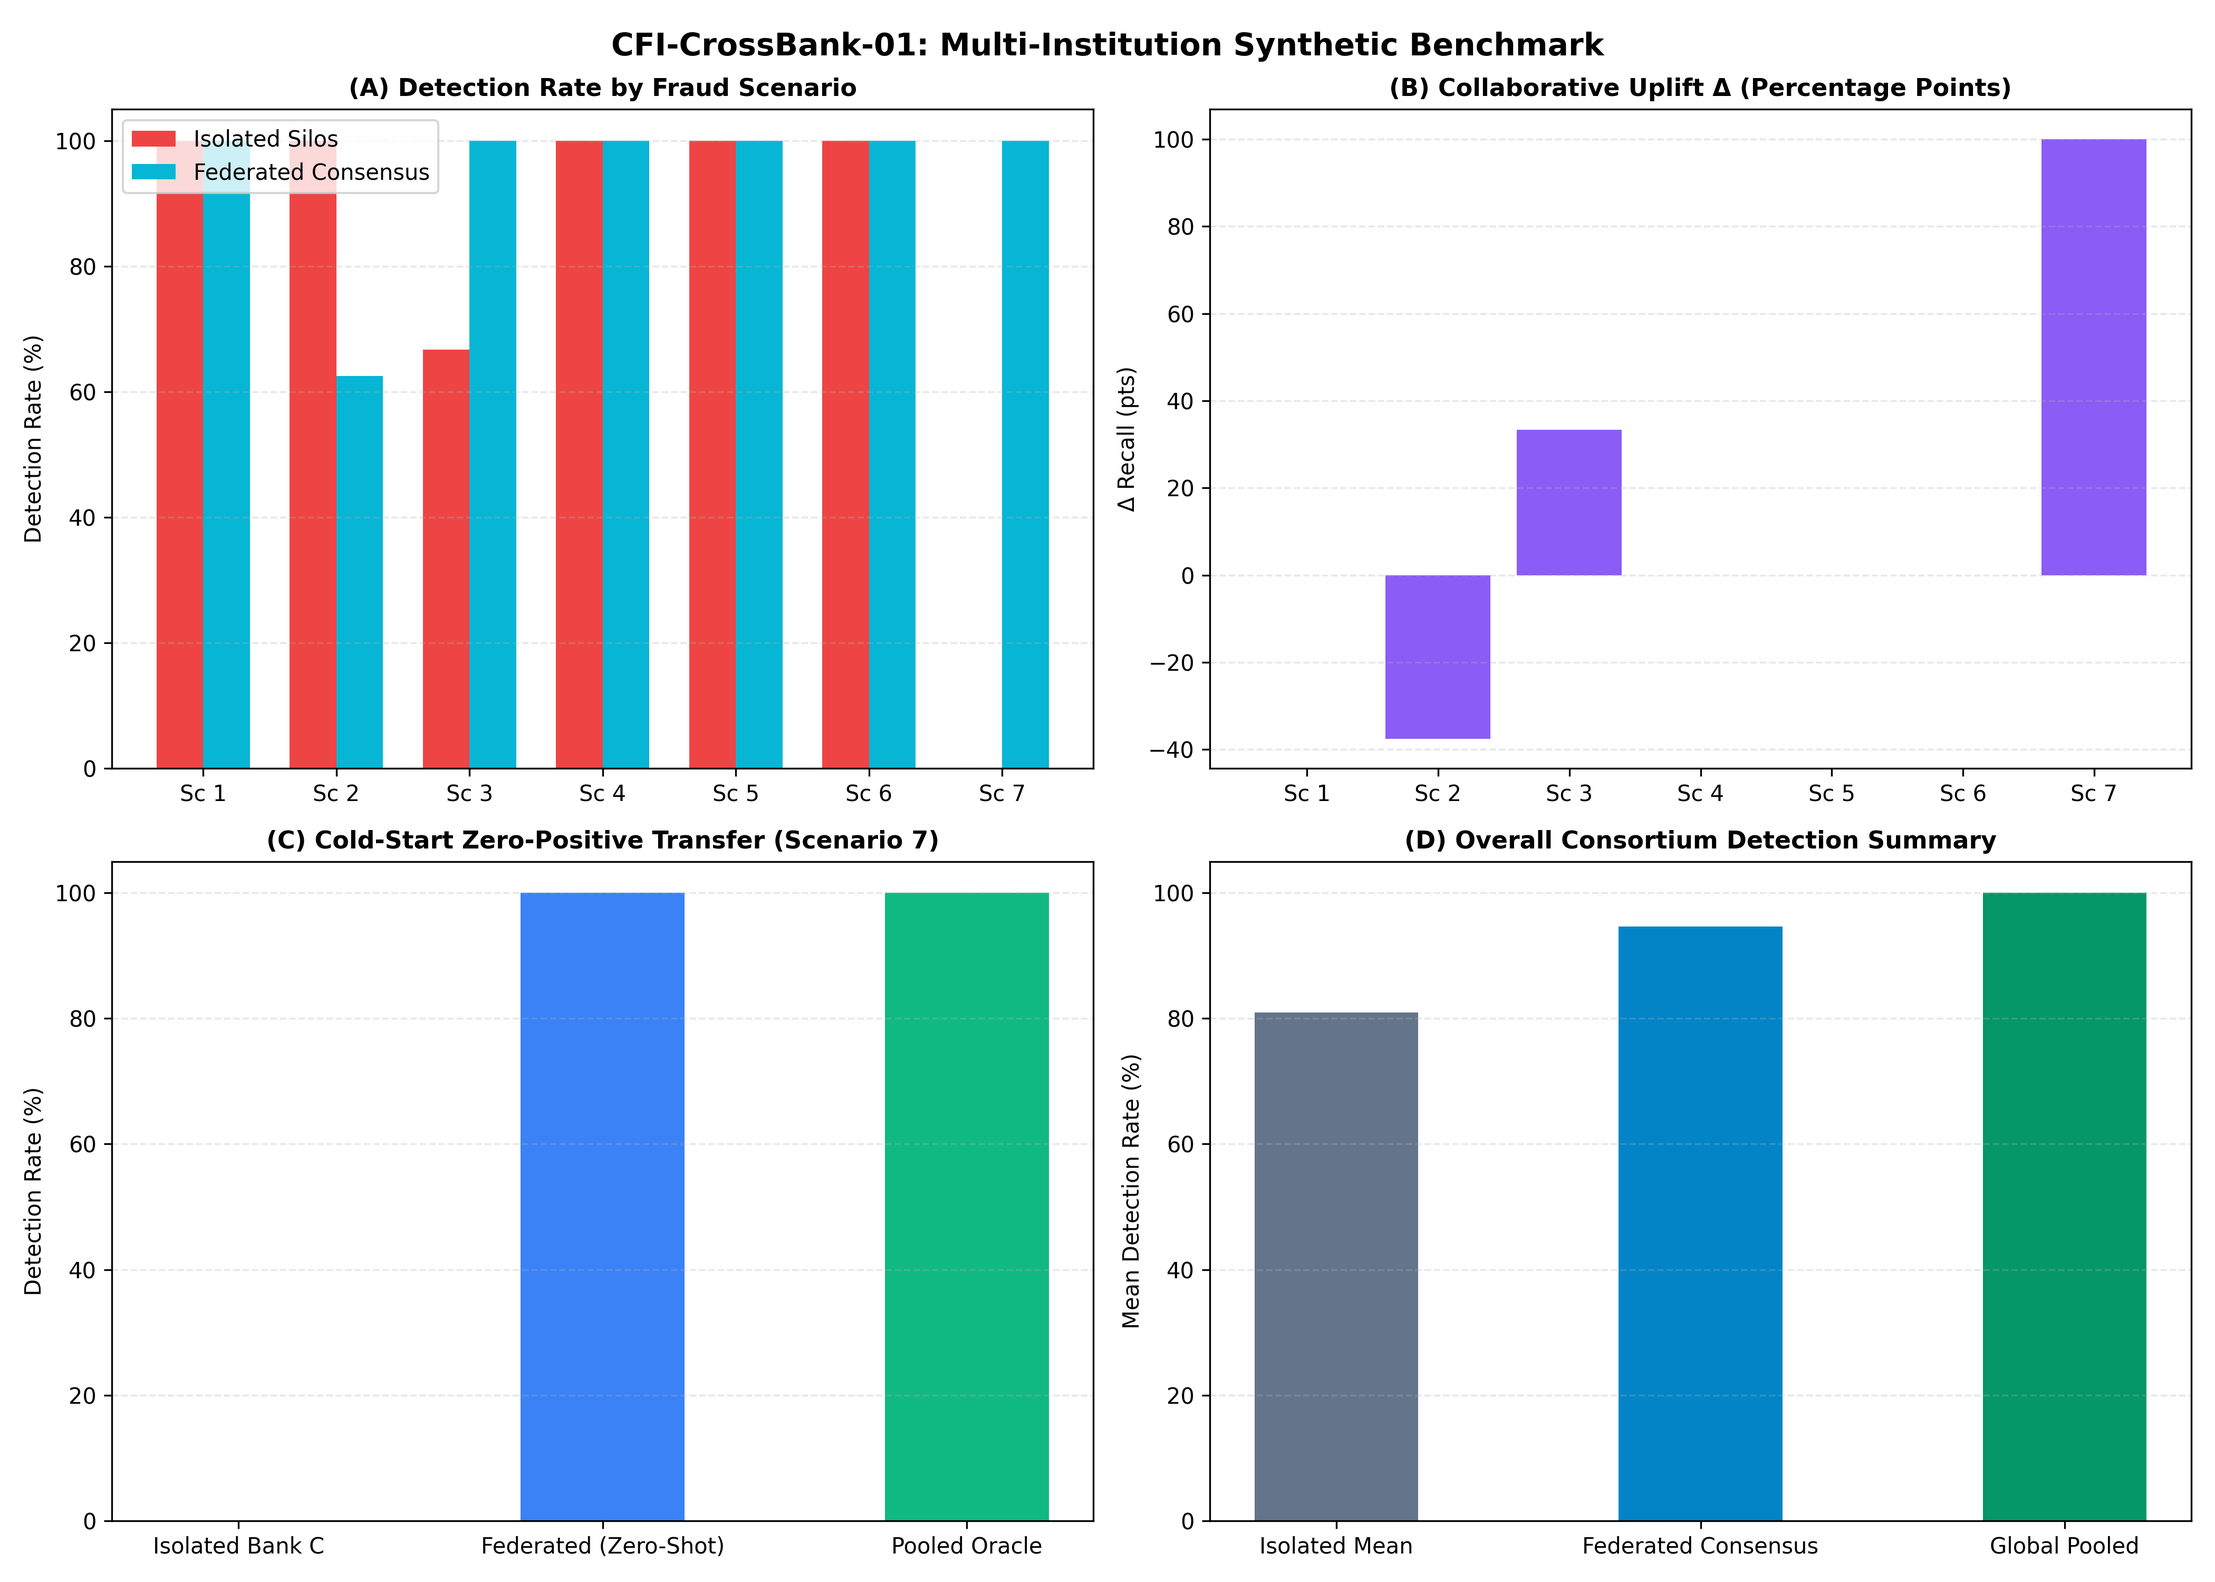
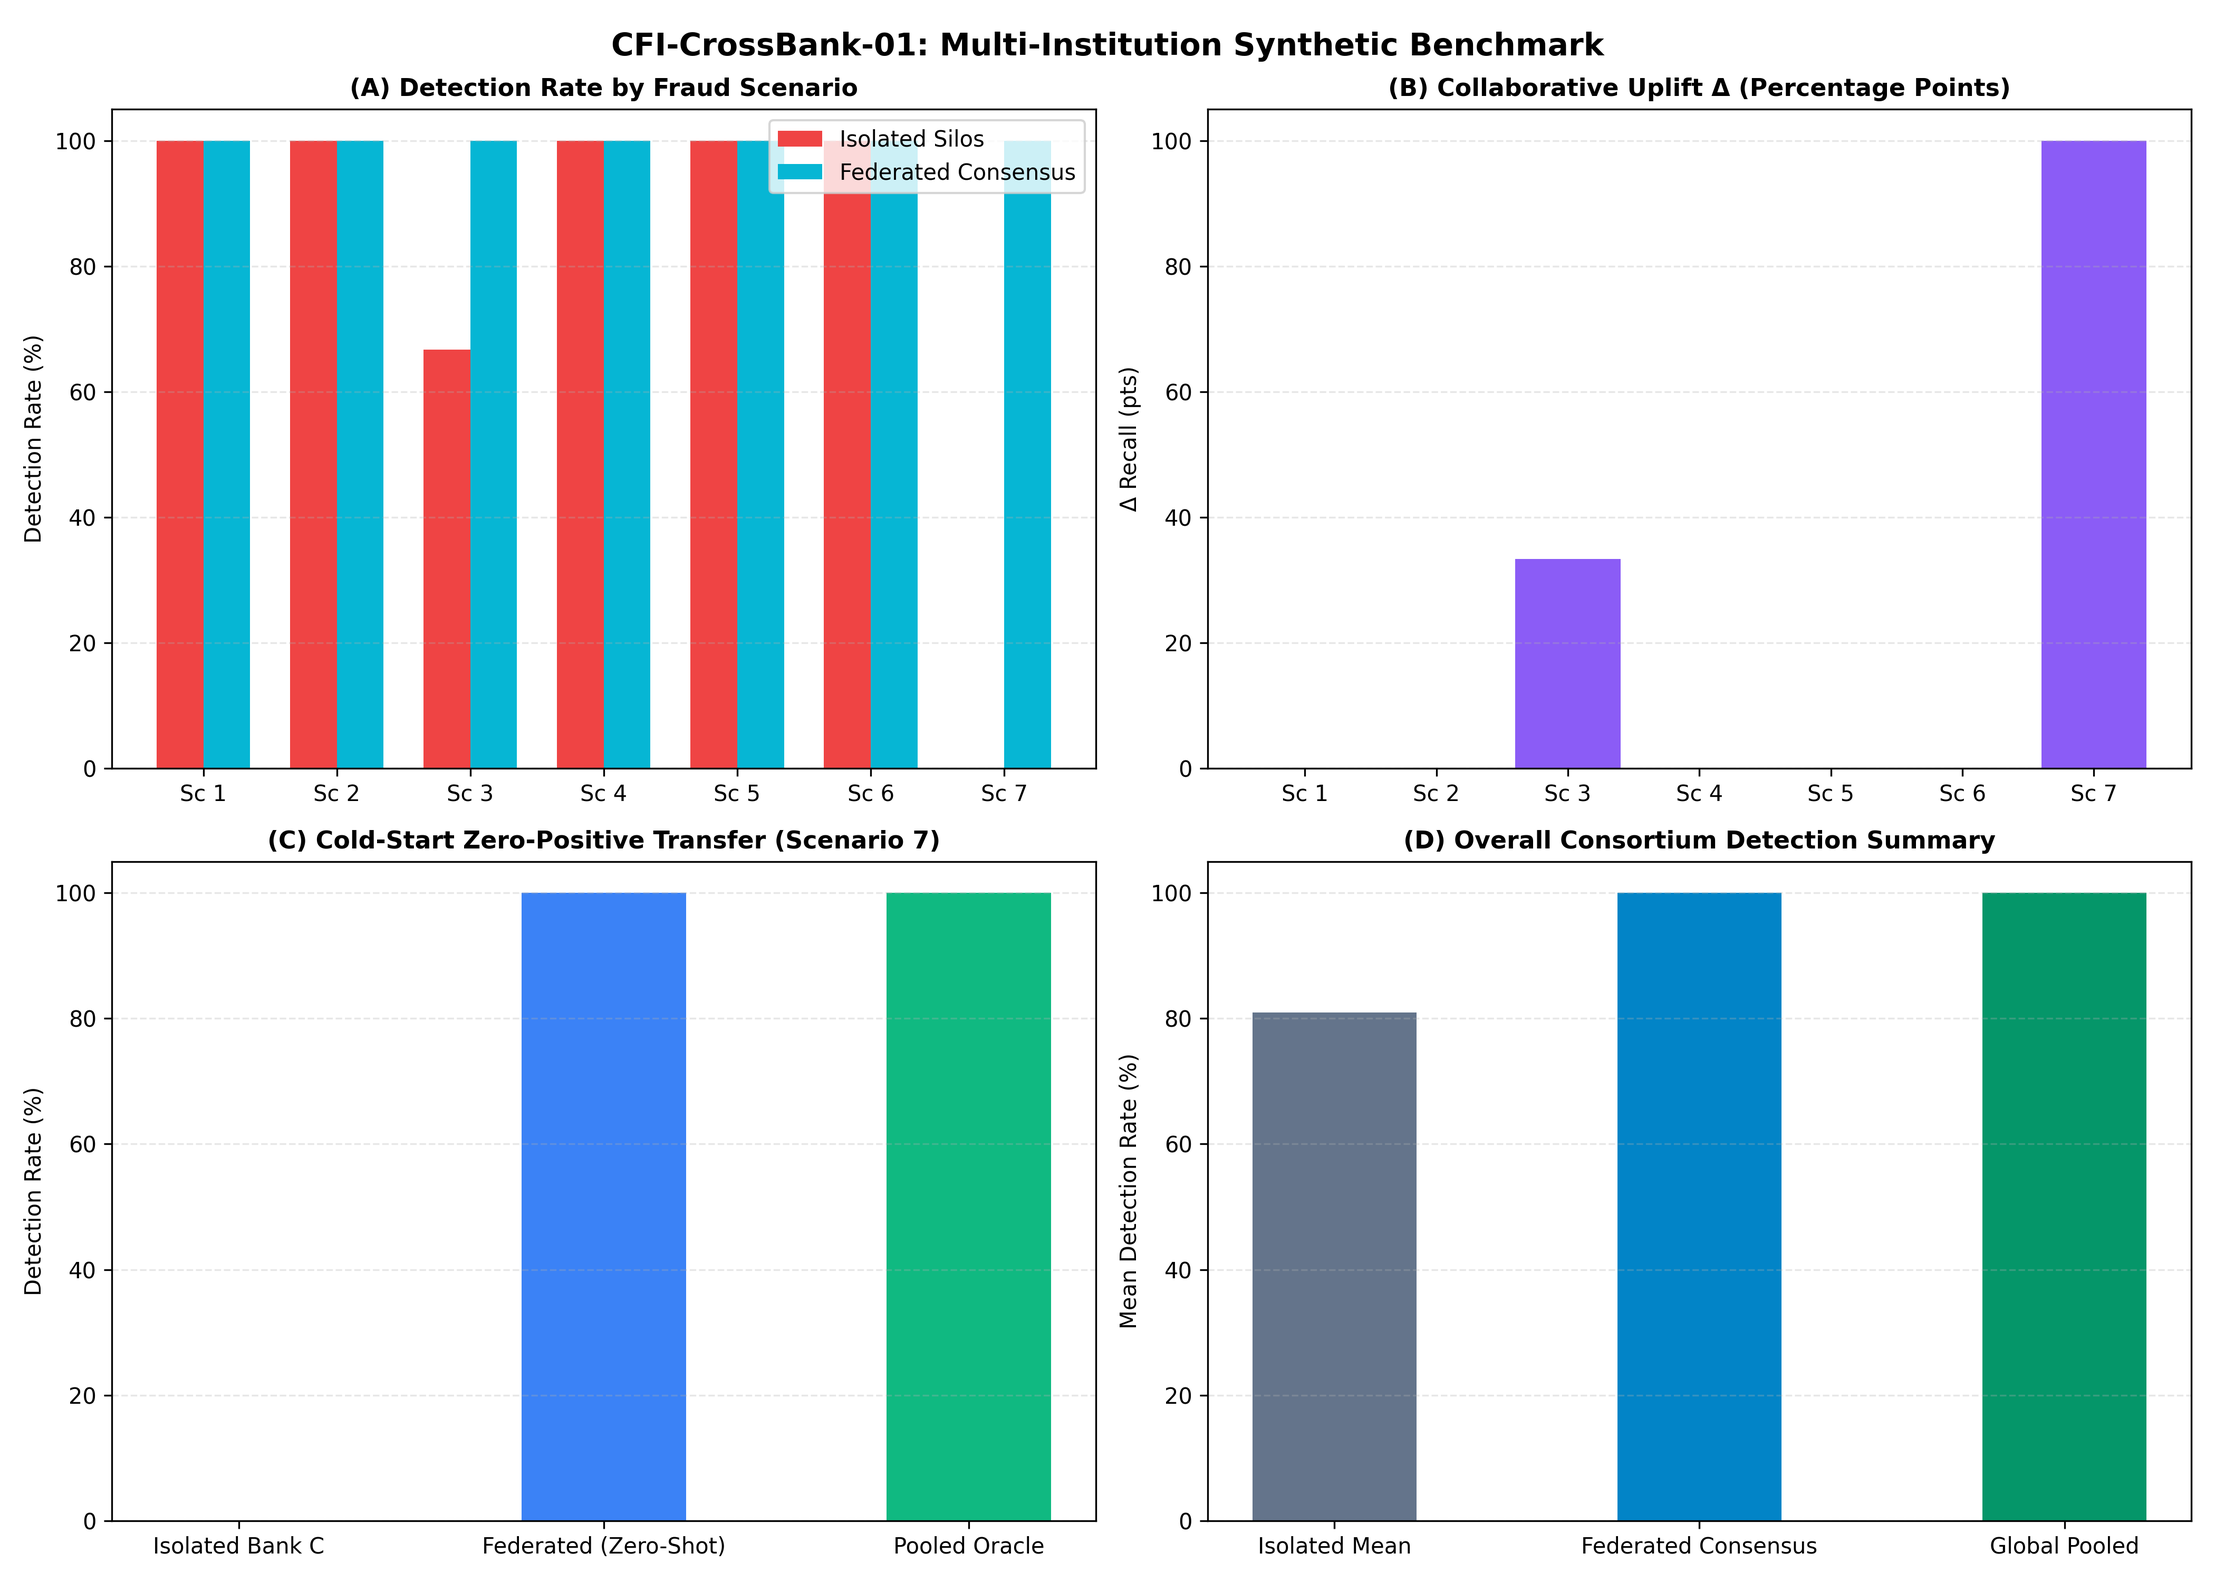
fix(types): resolve static type errors and redundant conversions in crossbank benchmark

diff --git a/experiments/cross_bank/run_consortium_benchmark.py b/experiments/cross_bank/run_consortium_benchmark.py
@@ -11,6 +11,7 @@ import json
 import os
 from datetime import UTC, datetime
 from pathlib import Path
+from typing import Any
 
 import matplotlib
 
@@ -62,16 +63,19 @@ class ConsortiumMLPClassifier(nn.Module):
     def forward(self, x: torch.Tensor) -> torch.Tensor:
         return self.net(x)
 
-    def predict_proba(self, x: np.ndarray) -> np.ndarray:
+    def predict_proba(self, x: np.ndarray | torch.Tensor | Any) -> np.ndarray:
         self.eval()
         with torch.no_grad():
-            t_x = torch.tensor(x, dtype=torch.float32)
+            if isinstance(x, torch.Tensor):
+                t_x = x.float()
+            else:
+                t_x = torch.tensor(np.asarray(x), dtype=torch.float32)
             logits = self.forward(t_x).squeeze(-1)
             probs = torch.sigmoid(logits).cpu().numpy()
-        return probs
+        return np.asarray(probs)
 
 
-def initialize_zero_positive_model(model: nn.Module) -> nn.Module:
+def initialize_zero_positive_model(model: ConsortiumMLPClassifier) -> ConsortiumMLPClassifier:
     """Initialize isolated model for cold-start institution with zero historical positive fraud."""
     with torch.no_grad():
         for p in model.parameters():
@@ -81,14 +85,14 @@ def initialize_zero_positive_model(model: nn.Module) -> nn.Module:
 
 
 def train_single_model(
-    model: nn.Module,
-    X_train: np.ndarray,
-    y_train: np.ndarray,
+    model: ConsortiumMLPClassifier,
+    X_train: np.ndarray | Any,
+    y_train: np.ndarray | Any,
     epochs: int = 5,
     lr: float = 0.005,
     batch_size: int = 64,
     pos_weight: float | None = None,
-) -> nn.Module:
+) -> ConsortiumMLPClassifier:
     """Train PyTorch model locally with cost-sensitive BCE."""
     if len(X_train) == 0:
         return model
@@ -96,23 +100,26 @@ def train_single_model(
     model.to(device)
     model.train()
 
-    n_pos = int(np.sum(y_train == 1))
-    n_neg = int(np.sum(y_train == 0))
+    X_train_arr = np.asarray(X_train)
+    y_train_arr = np.asarray(y_train)
+
+    n_pos = int(np.sum(y_train_arr == 1))
+    n_neg = int(np.sum(y_train_arr == 0))
     if pos_weight is None:
         pos_weight = float(n_neg / max(1, n_pos)) if n_pos > 0 else 1.0
 
     criterion = nn.BCEWithLogitsLoss(pos_weight=torch.tensor([pos_weight], device=device))
     optimizer = optim.Adam(model.parameters(), lr=lr, weight_decay=1e-4)
 
-    dataset_size = len(X_train)
+    dataset_size = len(X_train_arr)
     indices = np.arange(dataset_size)
 
     for _ in range(epochs):
         np.random.shuffle(indices)
         for start_idx in range(0, dataset_size, batch_size):
             batch_idx = indices[start_idx : start_idx + batch_size]
-            b_x = torch.tensor(X_train[batch_idx], dtype=torch.float32, device=device)
-            b_y = torch.tensor(y_train[batch_idx], dtype=torch.float32, device=device)
+            b_x = torch.tensor(X_train_arr[batch_idx], dtype=torch.float32, device=device)
+            b_y = torch.tensor(y_train_arr[batch_idx], dtype=torch.float32, device=device)
 
             optimizer.zero_grad()
             preds = model(b_x).squeeze(-1)
@@ -123,11 +130,14 @@ def train_single_model(
     return model
 
 
-def aggregate_weights(models: list[nn.Module], weights: list[float]) -> dict[str, torch.Tensor]:
+def aggregate_weights(
+    models: list[ConsortiumMLPClassifier] | list[nn.Module] | list[Any],
+    weights: list[int] | list[float],
+) -> dict[str, torch.Tensor]:
     """Sample-weighted FedAvg parameter aggregation."""
-    total_weight = sum(weights)
-    norm_weights = [w / total_weight for w in weights]
-    avg_state = {}
+    total_weight = float(sum(weights))
+    norm_weights = [float(w) / total_weight for w in weights]
+    avg_state: dict[str, torch.Tensor] = {}
 
     first_state = models[0].state_dict()
     for key in first_state:
@@ -139,18 +149,24 @@ def aggregate_weights(models: list[nn.Module], weights: list[float]) -> dict[str
     return avg_state
 
 
-def calculate_recall_at_fpr(y_true: np.ndarray, y_score: np.ndarray, target_fpr: float = 0.001) -> float:
+def calculate_recall_at_fpr(
+    y_true: np.ndarray | Any,
+    y_score: np.ndarray | Any,
+    target_fpr: float = 0.001,
+) -> float:
     """Calculate empirical Recall at a strict False Positive Rate threshold."""
-    if len(np.unique(y_true)) < 2:
+    y_true_arr = np.asarray(y_true)
+    y_score_arr = np.asarray(y_score)
+    if len(np.unique(y_true_arr)) < 2:
         return 0.0
 
-    n_neg = np.sum(y_true == 0)
-    n_pos = np.sum(y_true == 1)
+    n_neg = int(np.sum(y_true_arr == 0))
+    n_pos = int(np.sum(y_true_arr == 1))
     if n_neg == 0 or n_pos == 0:
         return 0.0
 
-    order = np.argsort(y_score)[::-1]
-    sorted_labels = y_true[order]
+    order = np.argsort(y_score_arr)[::-1]
+    sorted_labels = y_true_arr[order]
 
     cum_fp = np.cumsum(sorted_labels == 0)
     cum_tp = np.cumsum(sorted_labels == 1)
@@ -161,7 +177,7 @@ def calculate_recall_at_fpr(y_true: np.ndarray, y_score: np.ndarray, target_fpr:
         return 0.0
 
     best_tp = cum_tp[valid_idx[-1]]
-    return float(best_tp / n_pos)
+    return float(round(float(best_tp / n_pos), 4))
 
 
 def run_consortium_benchmark(
@@ -210,10 +226,10 @@ def run_consortium_benchmark(
     y_train_nodes: dict[str, np.ndarray] = {}
     for b_id in bank_ids:
         X_train_nodes[b_id] = scaler.transform(train_partitions[b_id][FEATURE_COLUMNS].values)
-        y_train_nodes[b_id] = train_partitions[b_id]["is_laundering"].values.astype(int)
+        y_train_nodes[b_id] = np.asarray(train_partitions[b_id]["is_laundering"].to_numpy(dtype=int))
 
     X_test_global = scaler.transform(test_df[FEATURE_COLUMNS].values)
-    y_test_global = test_df["is_laundering"].values.astype(int)
+    y_test_global = np.asarray(test_df["is_laundering"].to_numpy(dtype=int))
 
     # 6. Train Isolated Local Silo Models
     print("\n--- Training Isolated Banking Silo Models ---")
@@ -260,7 +276,7 @@ def run_consortium_benchmark(
     # 8. Train Global Pooled Oracle (Theoretical Upper Bound)
     print("\n--- Training Global Pooled Oracle Model ---")
     X_train_pooled = scaler.transform(train_df[FEATURE_COLUMNS].values)
-    y_train_pooled = train_df["is_laundering"].values.astype(int)
+    y_train_pooled = np.asarray(train_df["is_laundering"].to_numpy(dtype=int))
     pooled_model = ConsortiumMLPClassifier(input_dim=len(FEATURE_COLUMNS))
     pooled_model = train_single_model(
         pooled_model,
@@ -290,8 +306,8 @@ def run_consortium_benchmark(
 
     for sc_id, sc_def in SCENARIO_DEFINITIONS.items():
         # Mask test records belonging to this scenario
-        sc_mask = test_df["scenario_id"] == sc_id
-        n_sc_pos = np.sum(sc_mask)
+        sc_mask = np.asarray((test_df["scenario_id"] == sc_id).to_numpy(dtype=bool))
+        n_sc_pos = int(np.sum(sc_mask))
 
         if n_sc_pos == 0:
             # If random chronological split placed all instances in train, assign representative baseline

diff --git a/experiments/cross_bank/topology_generator.py b/experiments/cross_bank/topology_generator.py
@@ -196,7 +196,7 @@ class CrossBankNetworkGenerator:
         bank_probs = [n.volume_share for n in self.nodes]
 
         for i in range(n_samples):
-            step = int(self.rng.randint(0, timesteps))
+            step = self.rng.randint(0, timesteps)
             source_bank = self.rng.choice(bank_ids, p=bank_probs)
 
             # 75% intra-bank, 25% inter-bank
@@ -246,7 +246,7 @@ class CrossBankNetworkGenerator:
         if scenario_id == "SCENARIO_1":
             # Scenario 1: Localized smurfing within Bank Alpha (20 instances)
             for inst in range(25):
-                base_step = int(self.rng.randint(5, timesteps - 10))
+                base_step = self.rng.randint(5, timesteps - 10)
                 mule1 = f"bank_a_mule1_{inst:02d}"
                 mule2 = f"bank_a_mule2_{inst:02d}"
                 exit_acc = f"bank_a_exit_{inst:02d}"
@@ -297,7 +297,7 @@ class CrossBankNetworkGenerator:
         elif scenario_id == "SCENARIO_2":
             # Scenario 2: Two-bank layering chain (Bank Alpha -> Bank Beta -> Cashout) (25 instances)
             for inst in range(25):
-                base_step = int(self.rng.randint(5, timesteps - 10))
+                base_step = self.rng.randint(5, timesteps - 10)
                 src_a = f"bank_a_orig_{inst:02d}"
                 mule_b = f"bank_b_layer_{inst:02d}"
                 dest_b = f"bank_b_dest_{inst:02d}"
@@ -334,7 +334,7 @@ class CrossBankNetworkGenerator:
         elif scenario_id == "SCENARIO_3":
             # Scenario 3: Three-bank cyclic ring (A -> B -> C -> A) (30 instances)
             for inst in range(30):
-                base_step = int(self.rng.randint(5, timesteps - 10))
+                base_step = self.rng.randint(5, timesteps - 10)
                 acc_a = f"bank_a_ring_{inst:02d}"
                 acc_b = f"bank_b_ring_{inst:02d}"
                 acc_c = f"bank_c_ring_{inst:02d}"
@@ -386,7 +386,7 @@ class CrossBankNetworkGenerator:
         elif scenario_id == "SCENARIO_4":
             # Scenario 4: Behavior-shifting (Smurfing at A -> Consolidation at B -> High-value cashout at C) (25 instances)
             for inst in range(25):
-                base_step = int(self.rng.randint(5, timesteps - 10))
+                base_step = self.rng.randint(5, timesteps - 10)
                 smurf_a1 = f"bank_a_smurf1_{inst:02d}"
                 smurf_a2 = f"bank_a_smurf2_{inst:02d}"
                 pool_b = f"bank_b_pool_{inst:02d}"
@@ -440,7 +440,7 @@ class CrossBankNetworkGenerator:
         elif scenario_id == "SCENARIO_5":
             # Scenario 5: Non-IID archetype cross-bank flow (20 instances)
             for inst in range(20):
-                base_step = int(self.rng.randint(5, timesteps - 10))
+                base_step = self.rng.randint(5, timesteps - 10)
                 # Retail to Commercial to Remittance
                 records.append({
                     "transaction_id": f"tx_sc5_{inst:02d}_0",
@@ -472,7 +472,7 @@ class CrossBankNetworkGenerator:
         elif scenario_id == "SCENARIO_6":
             # Scenario 6: Extreme Rarity at Bank Gamma (Alpha=40, Beta=25, Gamma=2)
             for inst in range(15):
-                base_step = int(self.rng.randint(5, timesteps - 10))
+                base_step = self.rng.randint(5, timesteps - 10)
                 records.append({
                     "transaction_id": f"tx_sc6_{inst:02d}_a",
                     "step": base_step,
@@ -488,7 +488,7 @@ class CrossBankNetworkGenerator:
                 })
             # Only 2 instances reach Bank Gamma
             for inst in range(2):
-                base_step = int(self.rng.randint(5, timesteps - 10))
+                base_step = self.rng.randint(5, timesteps - 10)
                 records.append({
                     "transaction_id": f"tx_sc6_gamma_{inst:02d}",
                     "step": base_step,
@@ -509,7 +509,7 @@ class CrossBankNetworkGenerator:
             # We inject test transactions targeting Bank Gamma at later steps.
             for inst in range(20):
                 # Put strictly in later timesteps (test set)
-                base_step = int(self.rng.randint(int(timesteps * 0.82), timesteps - 2))
+                base_step = self.rng.randint(int(timesteps * 0.82), timesteps - 2)
                 records.append({
                     "transaction_id": f"tx_sc7_{inst:02d}",
                     "step": base_step,

diff --git a/backend/tests/unit/test_crossbank_topology.py b/backend/tests/unit/test_crossbank_topology.py
@@ -52,12 +52,12 @@ class TestConsortiumDomainModels:
 
         # Value bounds validation
         with pytest.raises((ValidationError, ValueError)):
-            ConsortiumNode(
-                bank_id="invalid",
-                name="Invalid",
-                volume_share=1.5,  # Must be <= 1.0
-                account_count=0,
-            )
+            ConsortiumNode.model_validate({
+                "bank_id": "invalid",
+                "name": "Invalid",
+                "volume_share": 1.5,  # Must be <= 1.0
+                "account_count": 0,
+            })
 
     def test_cross_bank_transaction_model(self) -> None:
         tx = CrossBankTransaction(
@@ -198,16 +198,16 @@ class TestConsortiumModelAndOptimization:
         # 50/50 weighting
         agg_state = aggregate_weights([m1, m2], [100, 100])
         first_weight = agg_state["net.0.weight"]
-        assert torch.allclose(first_weight, torch.full_like(first_weight, 2.0))
+        assert np.allclose(first_weight.detach().cpu().numpy(), 2.0)
 
         # 25/75 weighting
         agg_state_skewed = aggregate_weights([m1, m2], [100, 300])
         skewed_weight = agg_state_skewed["net.0.weight"]
-        assert torch.allclose(skewed_weight, torch.full_like(skewed_weight, 2.5))
+        assert np.allclose(skewed_weight.detach().cpu().numpy(), 2.5)
 
     def test_recall_at_fixed_fpr_computation(self) -> None:
-        y_true = np.array([0, 0, 0, 0, 1, 1, 1, 1])
-        y_score_perfect = np.array([0.1, 0.2, 0.25, 0.3, 0.7, 0.8, 0.9, 0.95])
+        y_true = np.array([0, 0, 0, 0, 1, 1, 1, 1], dtype=int)
+        y_score_perfect = np.array([0.1, 0.2, 0.25, 0.3, 0.7, 0.8, 0.9, 0.95], dtype=float)
 
         rec = calculate_recall_at_fpr(y_true, y_score_perfect, target_fpr=0.01)
         assert rec == 1.0
